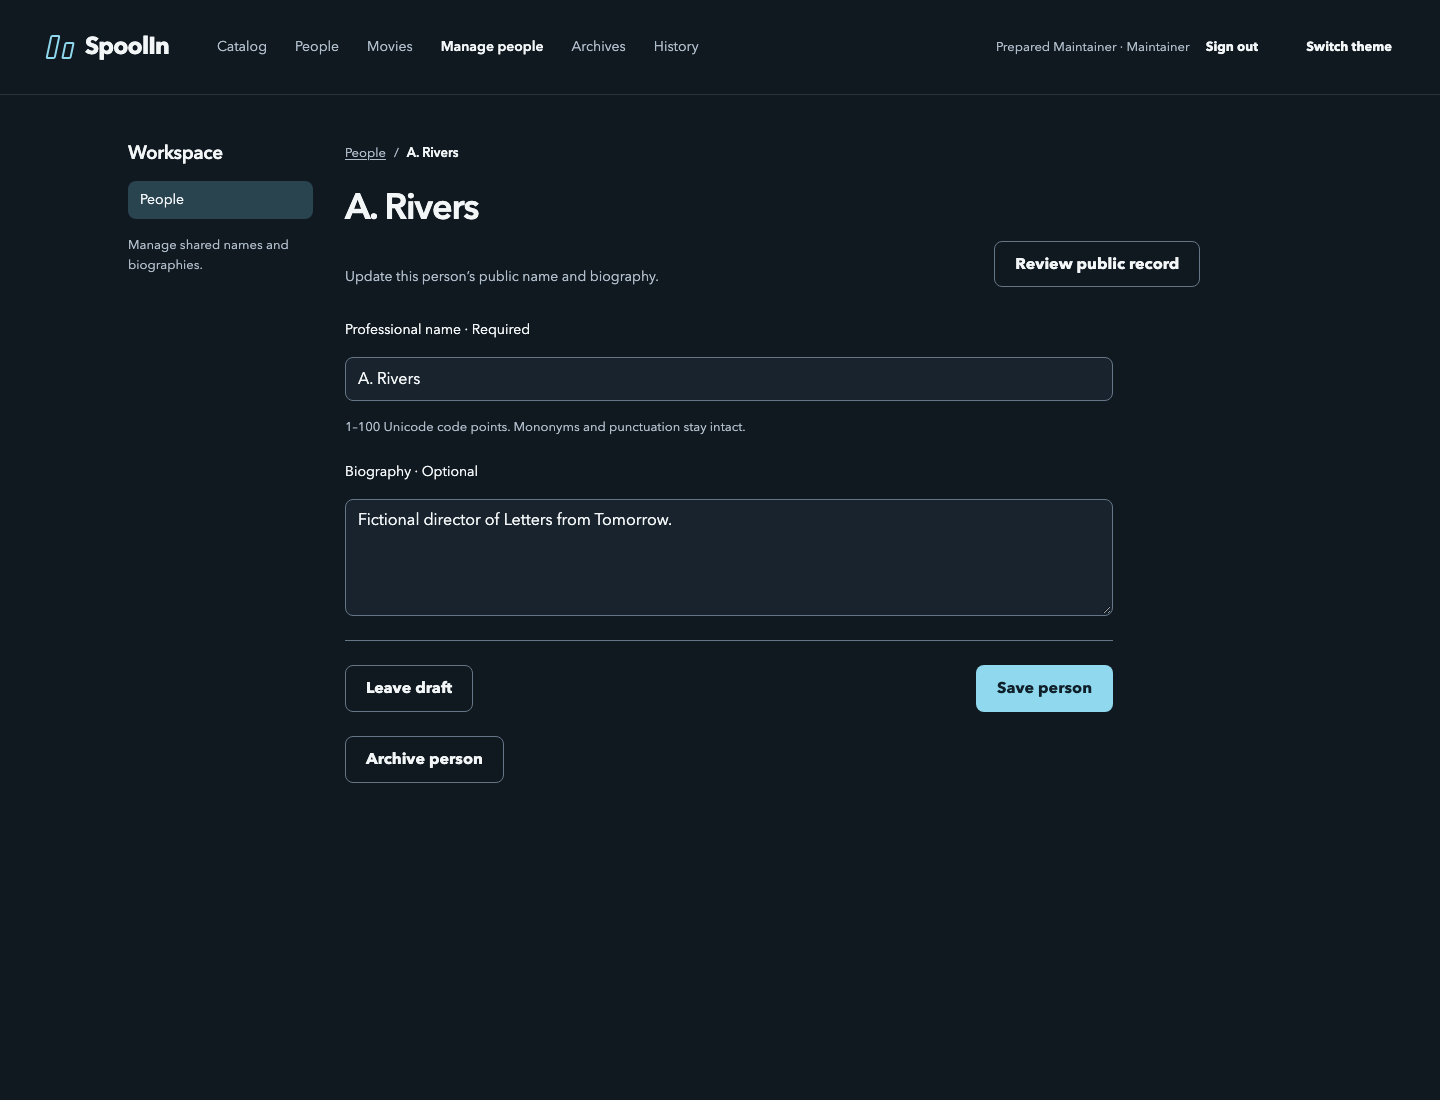
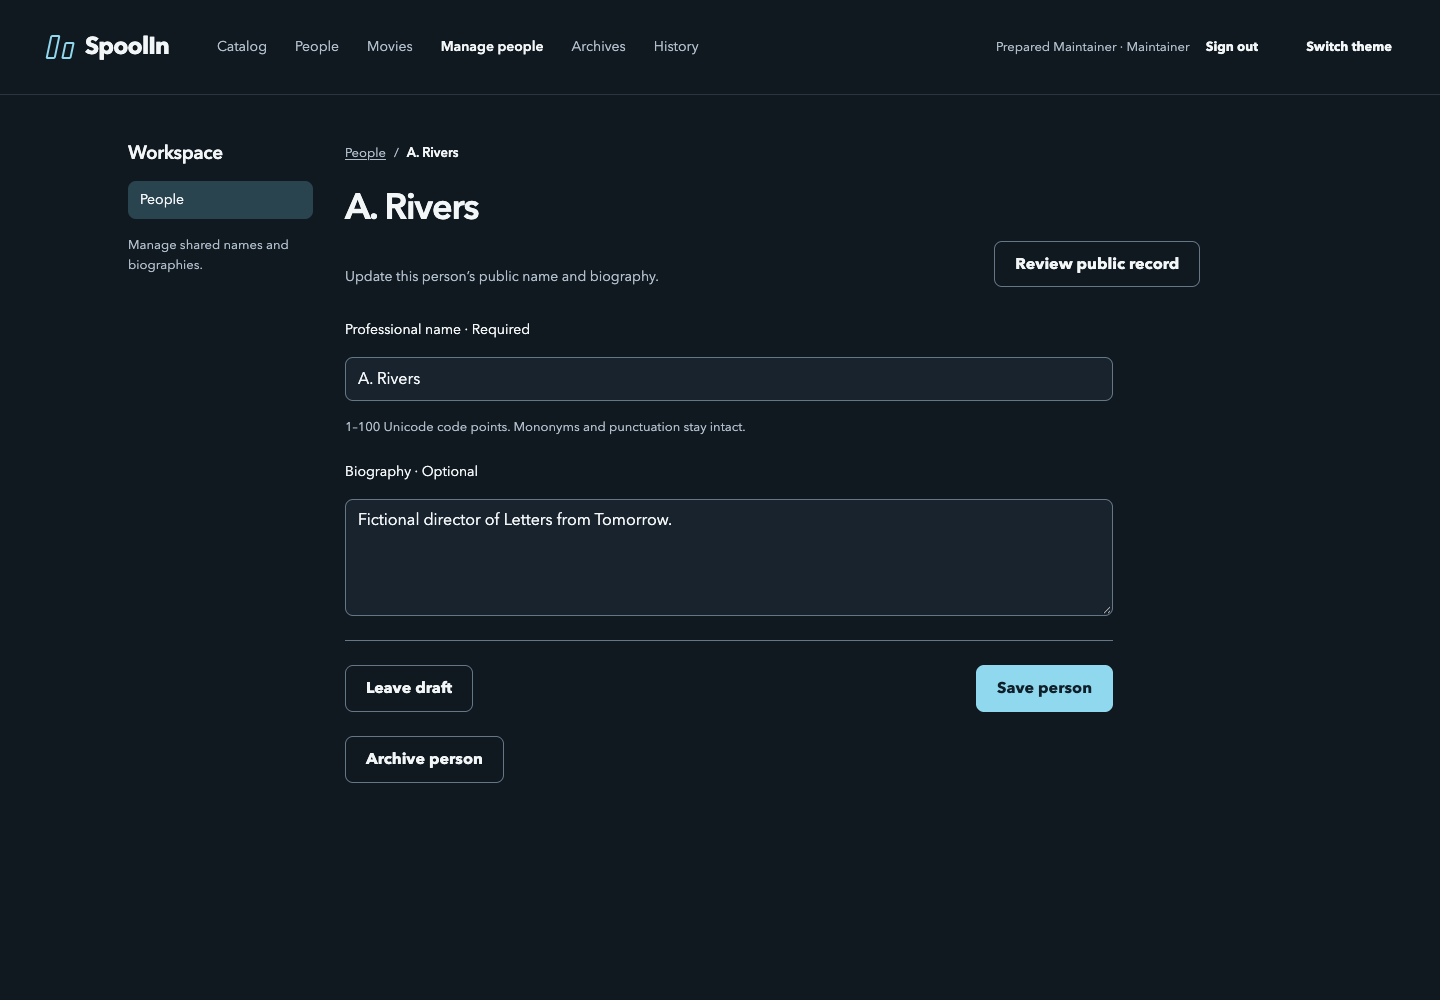
docs: refresh Maintainer walkthrough and screenshots

diff --git a/README.md b/README.md
@@ -494,71 +494,88 @@ You can also open **People** and search for either name directly. People with id
 
 ### Maintainer example: create and edit a movie
 
-1. Sign in as a Maintainer and open **Movies** in the navigation.
-2. Choose **Create movie**. For a fictional example, enter `Letters from Tomorrow` as the title and `A lighthouse keeper receives letters dated one day ahead.` as the synopsis. Complete the other required fields; add release details and genres where available.
-3. Read any field errors and correct the named inputs. The form displays the current limits; don't shorten content based on an old screenshot's limits.
-4. Save and wait for confirmation. The app opens **Cast and creators** for the saved movie. Add credits as described below, then select **Done**, or choose **Skip for now**. Both return to **Movies**, where a success panel shows the newly created movie with **Edit movie** and **Review public record** links.
-5. To change a movie, return to **Movies**, choose **Edit** for that record, edit its values, then select **Save movie** below **Poster artwork**. After confirmed completion, Movies retains your previous search and focuses a highlighted **Movie saved** panel with **Edit movie**, **Review public record**, and **Cast and creators** actions. The panel shows the saved movie even when it does not match your search.
+Sign in as a Maintainer and open **Movies**. Use **Search movies** with **Search** or Enter to find a title across the catalog. **Clear search** restores the unfiltered list; **Load more movies** retrieves the next page. Each active movie has **Edit**, **Review**, and **Cast and creators** actions. TV entries remain read-only.
 
-![Signed-in Maintainer managing movies, with Letters from Tomorrow and Create movie and Edit controls visible](docs/assets/spoolin/manage-movies.png)
+![Maintainer Movies list filtered to Letters from Tomorrow, with Edit, Review, and Cast and creators actions](docs/assets/spoolin/manage-movies.png)
 
-*Maintainer example: the saved fictional movie appears in Movies, with editing controls. The header displays Maintainer and includes management navigation.*
+*Movies: search for a title, then choose the action for that record.*
 
-If someone else saves the record while you're editing, SpoolIn asks you to review the current saved values. Compare them with your retained changes before continuing. If the connection drops during a save, use **Check original result** when offered. Repeatedly submitting an uncertain save can make it harder to tell which operation completed.
+Use the existing fictional examples below when they are already present; create them only if missing.
 
-Use **Search movies** and select **Search**, or press Enter, to find a title. Search includes records beyond the first loaded page. **Clear search** restores the unfiltered list; **Load more movies** retrieves further results.
+1. Select **Create movie**. For a fictional example, enter `Letters from Tomorrow` and the synopsis `A lighthouse keeper receives letters dated one day ahead.` Complete the required fields and choose genres and release details as appropriate. The form shows the current limits and field corrections.
+2. Select **Create movie** and wait for confirmation. The app opens **Cast and creators** for the saved movie. Add contributions as described below, then select **Done**, or choose **Skip for now**. Movies shows a **Movie created** panel with links to the saved record.
+3. To change an existing movie, choose **Edit** in Movies. Edit the details, optionally upload a poster, then select **Save movie** below **Poster artwork**. After confirmed completion, Movies keeps your previous search and focuses a highlighted **Movie saved** panel with **Edit movie**, **Review public record**, and **Cast and creators** actions. The panel identifies the saved movie even when it falls outside your search results.
 
-The seeded catalog also contains TV titles. Those entries are read-only in the movie management list.
+![Maintainer Create movie form ready for title, synopsis, genres, and release details](docs/assets/spoolin/maintainer-create-movie.png)
+
+*Create movie: enter the details first; confirmed creation continues to credits.*
+
+![Maintainer Edit movie page for Letters from Tomorrow with its saved movie details](docs/assets/spoolin/maintainer-edit-movie.png)
+
+*Edit movie: details and artwork share one completion action at the bottom. Credits have their own page.*
+
+Validation errors keep you in the editor with your input. If another edit changed the saved record, compare the newer values with your retained changes before continuing. For an uncertain save, use **Check original result** when offered before submitting again.
 
 ### Maintainer example: manage cast and creators
 
-Cast and creators use shared person records. Add the person first, then describe their contribution with a movie credit.
+Cast and creators use shared person records. Create a person once, then link that person to movies through credits.
 
-1. Sign in as a Maintainer and open **Manage people** → **Create person**.
-2. Enter `A. Rivers` as the professional name and `Fictional director of Letters from Tomorrow.` as the biography. Select **Save person**. After confirmed success, the app returns to **Manage people** with a **Person created** panel and links to edit or review that person.
-3. Create another person named `Mira Vale`, with the biography `Fictional actor playing the lighthouse keeper.`
-4. To update either biography, open **Manage people**, find the person, choose **Edit**, change the biography, and select **Save person**. After confirmed completion, the app returns to Manage people with your search text and submitted search preserved, and focuses a highlighted **Person saved** panel with edit and public-review links. The panel shows the person even if their updated name no longer matches your search; unchanged details finish without a redundant update. Validation errors, conflicts, and uncertain saves remain in the editor for resolution. Use **Search people** and select **Search**, or press Enter, to find records beyond the first page. **Clear search** restores the list, and **Load more people** retrieves further matches.
+Open **Manage people**. **Search people** with **Search** or Enter finds records beyond the first page; **Clear search** restores the list and **Load more people** retrieves further results.
 
-![Maintainer editing the fictional creator A. Rivers, with professional name, biography, and Save person controls](docs/assets/spoolin/maintainer-person.png)
+![Maintainer Manage people list filtered to A. Rivers, with Edit and Review actions](docs/assets/spoolin/maintainer-people.png)
 
-*People example: the editor keeps the professional name and biography together. Credits link this shared person record to their work on individual movies.*
+*Manage people: find a person before creating another record with the same name.*
 
-Editing a person updates that identity across its credits. It doesn't merge different people who happen to share a name.
+1. Select **Create person**, enter `A. Rivers` as the professional name and `Fictional director of Letters from Tomorrow.` as the biography, then select **Save person**. Confirmed creation returns to Manage people with a **Person created** panel and edit and public-review links.
+2. Create `Mira Vale` with the biography `Fictional actor playing the lighthouse keeper.` for the cast example below.
+3. To update a person, choose **Edit**, change the name or biography, and select **Save person**. Confirmed completion returns to Manage people, preserves your search, and focuses a highlighted **Person saved** panel. It identifies the person even if their new name no longer matches your search. Unchanged details finish without a redundant update; validation errors, conflicts, and uncertain saves remain in the editor for resolution.
+
+![Maintainer editing A. Rivers's professional name and biography](docs/assets/spoolin/maintainer-person.png)
+
+*Person editor: changes apply to this shared identity wherever its credits appear. People with identical names remain separate records.*
 
 ### Maintainer example: manage credits
 
-Open **Movies** and select **Cast and creators** beside `Letters from Tomorrow`. This opens a separate page with the movie title, existing credits, and buttons to add cast or creators. The action is available in both desktop and mobile lists. **Edit** opens movie details, artwork, and archive controls; credits are managed separately.
+In **Movies**, select **Cast and creators** beside `Letters from Tomorrow`. This separate page shows the movie title, existing credits, **+ Add cast**, **+ Add creator**, and **Done**. The same actions are available on smaller screens.
 
-1. Select **+ Add creator** to reveal the form. Choose **A. Rivers** in **Person** and **Director** in **Role**, then select **Add credit**.
-2. Select **+ Add cast**, then choose **Mira Vale** and the **Actor** role. Enter `The Keeper` in **Character names · one per line**, then select **Add credit**. Use the single **Person** search selection: open it, type a name, then select a matching person. Typing searches beyond the first page; scroll the open list or choose **Show more results** for additional matches. Use arrow keys to move through names, Enter to select the highlighted name, and Escape or an outside click to close. Searching does not change the selected person until you choose a name.
-3. Wait for confirmation. The form collapses after a successful save; use either plus button to add another credit. The same movie can have both cast and creator credits. Select **Done** when finished to return to Movies. When you opened credits from the movie list, your previous search text, submitted search, loaded results, and scroll position are restored. **Skip for now** appears only during the new-movie creation step; that flow also shows the newly created movie when you return. Unfinished credit input must be saved or discarded before leaving; use **Continue editing** to keep working. If a save result is unknown, check the original result before leaving.
-4. To change a credit, select its **Edit credit** control, update the role or supported character names, and select **Save credit**.
-5. To remove a contribution, choose **Remove credit** on that row and review its confirmation. Removing a credit removes the relationship; the shared person remains available.
+![Separate Cast and creators page with existing contributions, add buttons, and Done](docs/assets/spoolin/maintainer-credits.png)
 
-**Refresh saved credits** reloads saved contributions without saving your form. It retains your unfinished input and loaded credit depth, reports when nothing changed, and offers a retry message if loading fails.
+*Credits: manage contributions here while keeping Edit movie focused on details and artwork.*
 
-If the needed role is missing, open **Need another role?**. A custom role is a reusable contribution label, such as Stunt performer or Historical adviser; creating it does not add a movie credit. The form inherits Cast or Creator from the credit you are adding, and asks for a category only when it is unknown. Custom roles do not accept character names; choose **Actor** when character names are needed. After **Create role**, wait for **Role ready**, choose a person if needed, then select **Add credit**. **Cancel custom role** clears unfinished role input.
+1. Select **+ Add creator**, choose **A. Rivers** in **Person** and **Director** in **Role**, then select **Add credit**.
+2. Select **+ Add cast**, choose **Mira Vale** and **Actor**, and enter `The Keeper` in **Character names · one per line**. Select **Add credit**.
+3. Wait for the **Credit saved** confirmation; the form collapses. Select **Load more credits** if the contribution is beyond the currently loaded list. Use either plus button to add another contribution.
+4. Use **Edit credit** to change a contribution, then **Save credit**. **Remove credit** opens a confirmation; it removes the relationship while keeping the shared person available.
+5. Select **Done** to return to Movies. When you opened credits from Movies, the previous search, loaded results, and scroll position return. **Skip for now** appears only after new-movie creation; returning from that flow shows the created movie.
 
-If role creation is unconfirmed, use **Check creation status** or **Safely retry creation**, which reuses the same request. Resolve it before leaving or saving another credit. If creation succeeded but refreshing the dropdown failed, use **Refresh role list**; do not create the role again. Known rejections let you correct the form, while unfinished role input must be discarded or completed before leaving.
+The **Person** field is one searchable selection. Open it and type a name to search beyond the first loaded page, then choose a result. Scroll the open list or select **Show more results** to see additional matches. Arrow keys move through names, Enter selects the highlighted person, and Escape or an outside click closes the list. Typing does not replace your selected person until you choose a name.
 
-![Maintainer credit panel with A. Rivers as Director and Mira Vale as Actor playing The Keeper, plus editing and removal controls](docs/assets/spoolin/maintainer-credits.png)
+![Person search selection open with matching names for Mira](docs/assets/spoolin/maintainer-person-select.png)
 
-*Credits example: the movie links one creator and one cast member to their existing person records. These screenshots predate the direct **Cast and creators** list action, separate credits page, plus buttons, single Person search selection, refresh feedback, optional custom-role form, and creation-step navigation described above.*
+*Person selection: search and choose a name in the same control.*
+
+**Refresh saved credits** reloads contributions without saving your form. It retains unfinished input and loaded credit depth, reports completion even when nothing changed, and explains how to retry a failed refresh.
+
+If the role you need is missing, open **Need another role?**. A custom role is a reusable contribution label, such as Stunt performer or Historical adviser. Creating the label does not add a person to the movie: after **Create role** confirms **Role ready**, choose the person and select **Add credit**. The category follows the Cast or Creator form you opened; the app asks for it only when unknown. Custom roles do not accept character names; choose **Actor** when you need them. **Cancel custom role** clears unfinished role input.
+
+![Optional Need another role section expanded within the credit form](docs/assets/spoolin/maintainer-custom-role.png)
+
+*Custom role: create a contribution label only when the existing Role choices do not fit.*
+
+Before leaving unfinished credit or role input, save or discard it, or choose **Continue editing**. Unknown save results must be resolved first. For unconfirmed role creation, use **Check creation status** or **Safely retry creation**, which reuses the original request. If the role was created but the choices could not refresh, select **Refresh role list** instead of creating it again. A definite rejection lets you correct the form.
 
 ### Maintainer example: upload artwork
 
-For the fictional movie, use the repository's sample lighthouse poster:
+1. Open **Movies** → **Edit** for `Letters from Tomorrow`, then find **Poster artwork**. Choose the sample `docs/design-system/mockup/assets/letters.png`, or another JPEG, PNG, or WebP image you have permission to use.
+2. The browser reads the local file directly and prepares a smaller copy if it exceeds the dimension or upload byte limit. It preserves the aspect ratio and your original file. The prepared copy fits within 8192 pixels per side, 40 million pixels, and the current upload byte limit. Images already within those limits upload unchanged.
+3. Keep the page open during preparation, transfer, and processing. A complete transfer percentage does not mean the poster is attached. Wait for **Artwork saved. Select Save movie below to finish.**
+4. Select **Save movie** below the artwork to finish any movie-detail edits and return to Movies with your previous search and a highlighted saved-movie panel. Artwork-only completion confirms the current record without another metadata update.
 
-1. Open **Movies** → **Edit** for `Letters from Tomorrow`.
-2. Find **Poster artwork** and choose `docs/design-system/mockup/assets/letters.png` from this checkout. You can also use a PNG, JPEG, or WebP image you have permission to use. If it exceeds the dimension or upload byte limit, the browser automatically prepares a smaller copy before transfer, preserving its aspect ratio and leaving your original file unchanged. The prepared image fits within 8192 pixels per side, 40 million pixels, and the current upload byte limit. Images already within those limits upload unchanged.
-3. Keep the page open while the file transfers and the server processes it. A complete transfer percentage doesn't mean the poster is attached yet.
-4. Wait for **Artwork saved. Select Save movie below to finish.** Artwork is already attached at this point; the app keeps you in the editor so you can finish any movie-detail changes. Select **Save movie** below the artwork to return to Movies with your previous search intact and the saved movie highlighted. If only artwork changed, completion confirms the current record without another metadata update.
+![Edit movie Poster artwork chooser and the bottom Save movie and Leave draft actions](docs/assets/spoolin/maintainer-artwork.png)
 
-![Maintainer Poster artwork field with the file chooser ready for an image](docs/assets/spoolin/maintainer-artwork.png)
+*Artwork: choose a file, wait for attachment confirmation, then use Save movie to finish. This image shows the controls before an upload.*
 
-*Artwork example: choose an image in the Poster artwork field. The public movie page above shows the lighthouse poster already attached to this record. This screenshot predates the bottom Save movie action and completion feedback.*
-
-Completion stays unavailable during artwork preparation, transfer, processing, or an uncertain result. If the artwork attached but details could not refresh, select **Retry movie details** before finishing. Local movie-detail edits remain in the form; if saved metadata changed elsewhere, review the conflict before saving. **Cancel upload** applies while that action is available. If the outcome is uncertain, use the offered status check; unsupported or unreadable files explain what to change. If the browser cannot prepare a copy within the limits, choose a smaller image. Server validation still applies to every upload.
+Completion remains unavailable during preparation, transfer, processing, or an uncertain result. If attachment succeeded but details could not refresh, use **Retry movie details**. Unsaved movie details stay in the form; review conflicts if saved metadata changed elsewhere. Use **Cancel upload** while available, or the offered status check when the outcome is uncertain. Unsupported or unreadable files explain what to change; choose a smaller image if a copy cannot be prepared within the limits. Server validation applies to every upload.
 
 ### Maintainer example: archive and delete records
 
